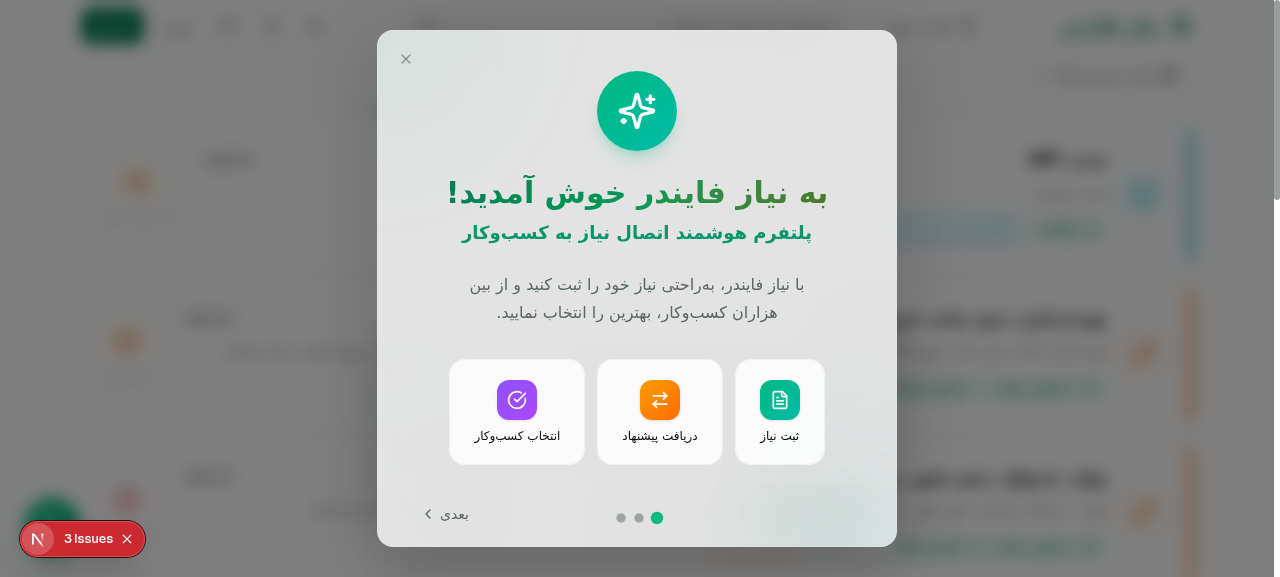
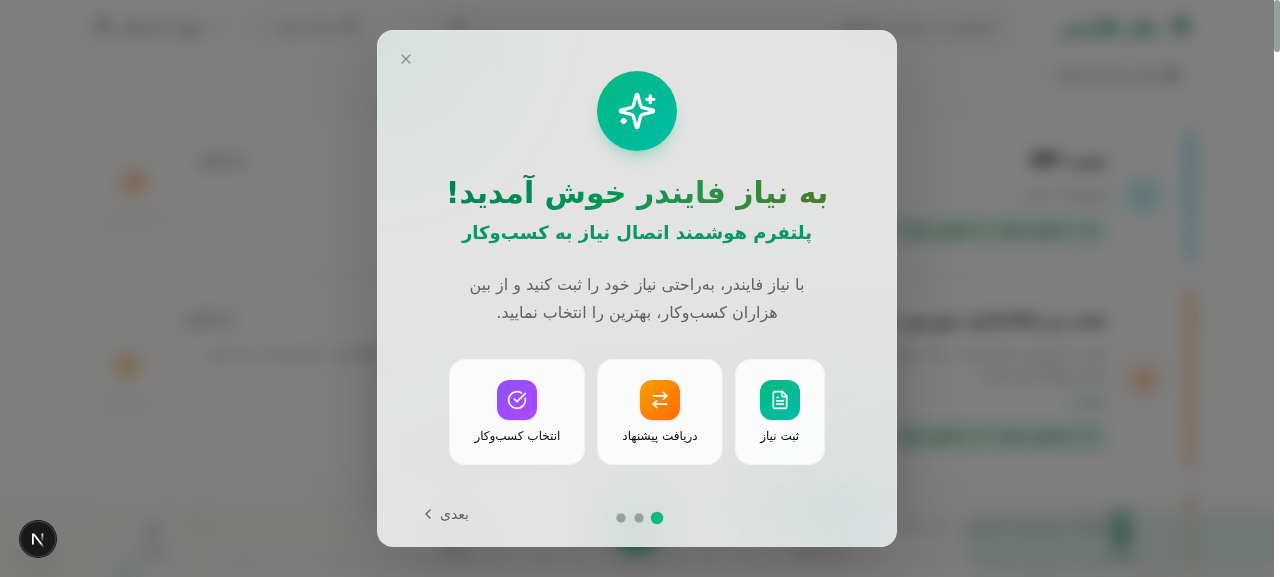
1b9df705-a943-4138-a35e-76ecd5ac336f

diff --git a/worklog.md b/worklog.md
@@ -2334,3 +2334,28 @@ Stage Summary:
 - ESLint: 0 errors
 - TypeScript: 0 errors
 
+
+---
+Task ID: server-restart-debug
+Agent: Main
+Task: Restart dev server and verify site is working after user reported blank page
+
+Work Log:
+- Killed all existing processes on port 3000
+- Attempted multiple restart methods (nohup, setsid) — processes kept dying due to sandbox process management
+- Successfully started dev server using `bun run dev &` in background subshell
+- Dev server compiled successfully: GET / 200 in 3.5s (compile: 2.8s, render: 684ms)
+- All API routes working:
+  - GET /api/requests?limit=12&page=1&status=OPEN → 200 ✅
+  - GET /api/specialists?limit=6&sort=rating → 200 ✅
+- Page renders 361KB of HTML content
+- Used agent-browser to verify: site loads correctly, no console errors
+- Homepage shows: Header with search, location selector, category chips, request cards with budget/priority/city info
+- Screenshot saved to /home/z/my-project/screenshot-home.png
+
+Stage Summary:
+- Server was not running (process had been killed by sandbox)
+- No code issues found — site compiles and renders correctly
+- All API routes return 200 with real data
+- Zero runtime errors in browser console
+- Site is fully functional and visible in preview
